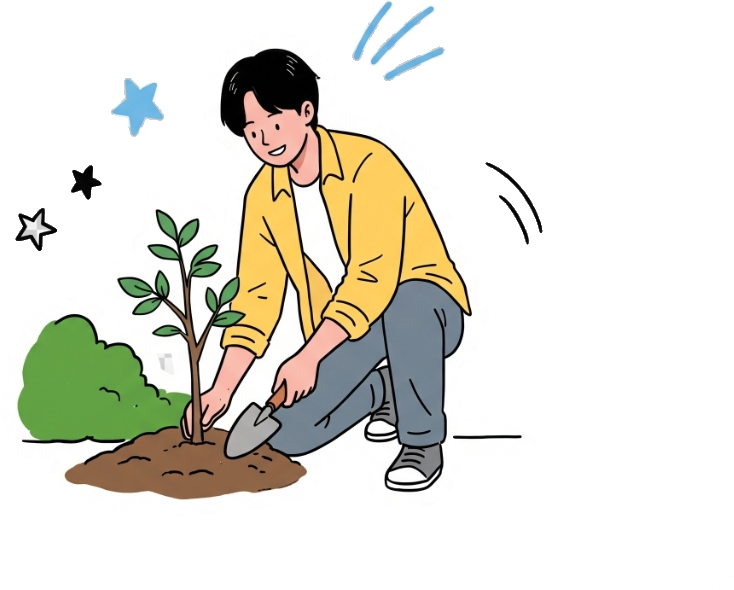
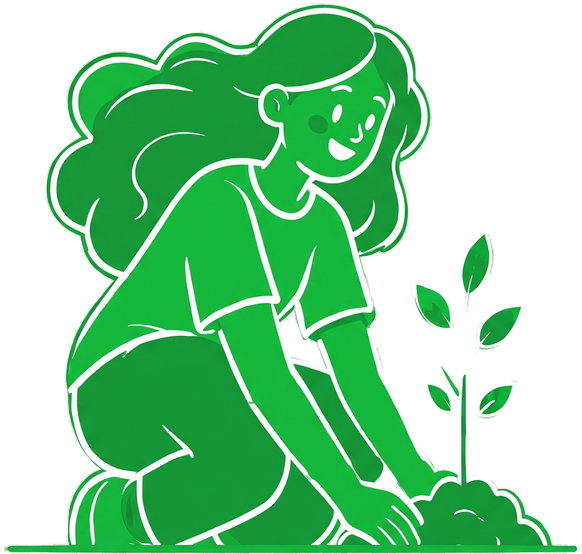
Restore original green girl character in hero and use man planting in stats

diff --git a/index.html b/index.html
@@ -383,7 +383,7 @@ nav.f-links a:hover{text-decoration:underline}
 <section class="stats" id="stats">
   <div class="sq-field" data-count="22" aria-hidden="true"></div>
   <div class="tree-wrap">
-    <img id="tree" src="Flat Assets/civic/char-2-planting.png" onerror="this.src='public/flat-assets/civic-cutouts/char-2-planting.png'" alt="Student planting sapling" />
+    <img id="tree" src="Flat Assets/civic/man-planting.png" onerror="this.src='public/flat-assets/civic-cutouts/man-planting.png'" alt="Student planting sapling" />
   </div>
   <div class="stats-inner">
     <span class="pill reveal"><span class="pill-dot"></span>Live campus metrics</span>
